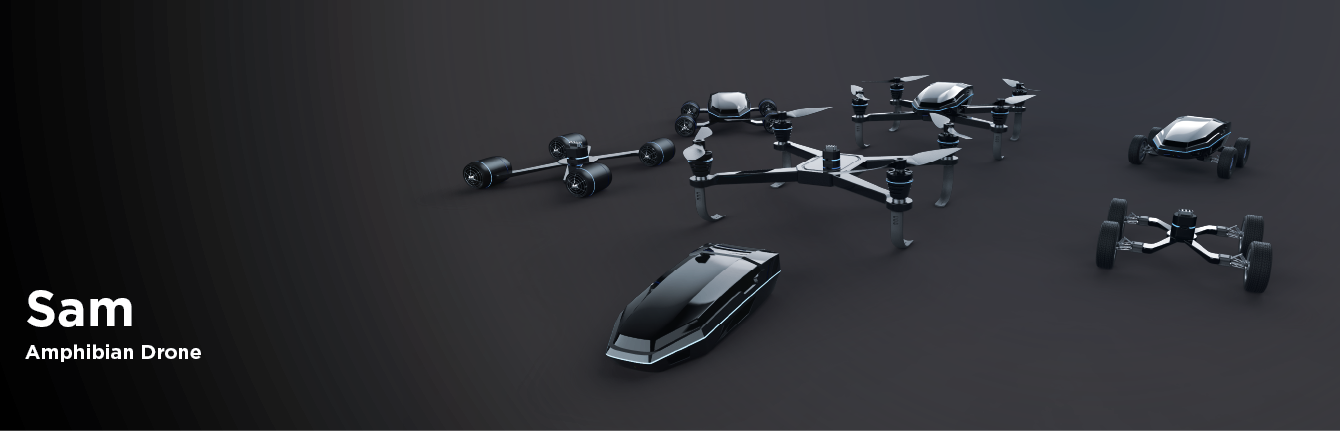
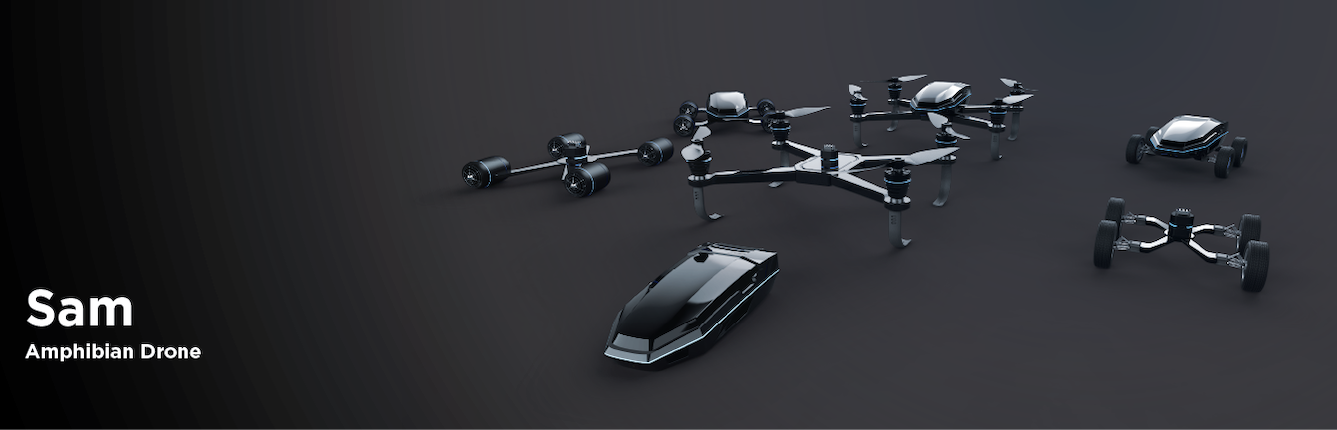
A

diff --git a/index.html b/index.html
@@ -26,7 +26,7 @@
 	
 
 	<title>Projects | Welcome</title>
-	<link rel="stylesheet" type="text/css" media="all" href="rw_common/themes/Future/consolidated-4.css?rwcache=624517686" />
+	<link rel="stylesheet" type="text/css" media="all" href="rw_common/themes/Future/consolidated-4.css?rwcache=624518698" />
 		
 	
 	   
@@ -62,7 +62,7 @@
 			<div class="container">
                 <div class="row">
                     <div class="col-sm-12 main">
-                        <a href="projects/section.html" title="Section"><img class="imageStyle" alt="資產 1" src="files/8cc77522-1.png" width="1337" height="430" /></a><br /><a href="projects/urbankite.html" title="Urbankite"><img class="imageStyle" alt="資產 2" src="files/8cc77522-2.png" width="1337" height="430" /></a><a href="projects/kai.html" title="Kai"><br /></a><a href="projects/kai.html" title="Kai"><img class="imageStyle" alt="工作區域 2@4x" src="files/5de54f5c534057df-200404x.png" width="1337" height="430" /></a><br /><a href="projects/sam.html" title="Sam"><img class="imageStyle" alt="工作區域 2" src="files/5de54f5c534057df-2.png" width="1340" height="431" /></a><br />Website under construction...
+                        <br /><br /><br /><br /><br /><br /><br /><br /><br /><br /><br /><a href="projects/section.html" title="Section"><img class="imageStyle" alt="資產 1" src="files/8cc77522-1.png" width="1337" height="430" /></a><br /><a href="projects/urbankite.html" title="Urbankite"><img class="imageStyle" alt="資產 2" src="files/8cc77522-2.png" width="1337" height="430" /></a><a href="projects/kai.html" title="Kai"><br /></a><a href="projects/kai.html" title="Kai"><img class="imageStyle" alt="工作區域 2@4x" src="files/5de54f5c534057df-200404x.png" width="1337" height="430" /></a><br /><a href="projects/sam.html" title="Sam"><img class="imageStyle" alt="工作區域 2" src="files/5de54f5c534057df-2.png" width="1337" height="430" /></a><br />Website under construction...
                     </div>
 
                     <div class="col-sm-12 sidebar">
@@ -84,7 +84,7 @@
 			</div>
 		</div>
 	</div>
-	<script type="text/javascript" src="rw_common/themes/Future/js/main.js?rwcache=624517686"></script>
+	<script type="text/javascript" src="rw_common/themes/Future/js/main.js?rwcache=624518698"></script>
 </body>
 
 </html>
